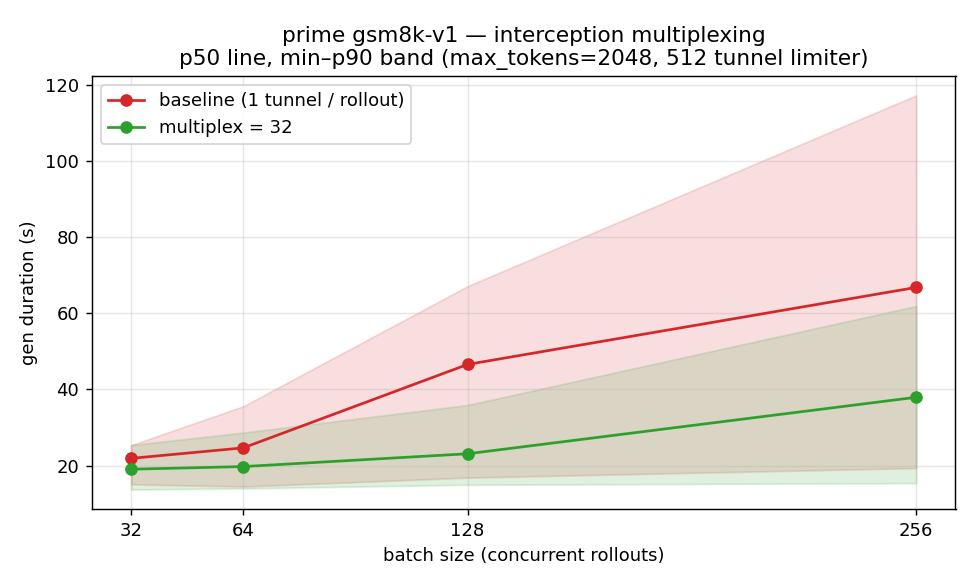
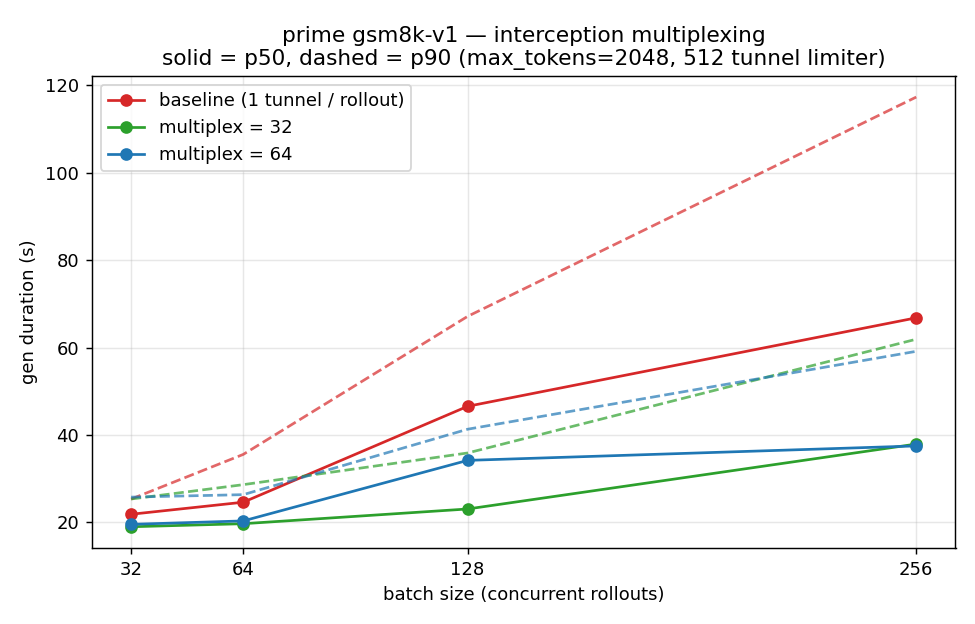
exp(v1): add multiplex=64 to the base-vs-mux plot (mux=32 is the sweet spot)

diff --git a/bench/plot_mux.py b/bench/plot_mux.py
@@ -1,11 +1,11 @@
-"""Plot interception multiplexing: baseline (tunnel/rollout) vs --multiplex 32.
+"""Plot interception multiplexing: baseline (tunnel/rollout) vs --multiplex 32 vs 64.
 
     uv run --with matplotlib python bench/plot_mux.py
 
-Reads the prime gsm8k-v1 runs (capped max_tokens=2048) at batch 32/64/128/256 for both
-variants and plots per-rollout generation-duration p50 (line) + min–p90 (band) — e2e is
-gated by endpoint-queue stragglers, so the distribution is the honest comparator.
-Writes bench/mux_vs_base.png.
+Reads the prime gsm8k-v1 runs (capped max_tokens=2048) at batch 32/64/128/256 for each
+variant and plots per-rollout generation-duration p50 (solid) + p90 (dashed) — e2e is gated
+by endpoint-queue stragglers, so the distribution is the honest comparator. Writes
+bench/mux_vs_base.png.
 """
 
 import json
@@ -16,6 +16,11 @@ matplotlib.use("Agg")
 import matplotlib.pyplot as plt
 
 SIZES = [32, 64, 128, 256]
+VARIANTS = [
+    ("base", "baseline (1 tunnel / rollout)", "#d62728"),
+    ("mux32", "multiplex = 32", "#2ca02c"),
+    ("mux64", "multiplex = 64", "#1f77b4"),
+]
 
 
 def gens(variant: str, n: int) -> list[float]:
@@ -29,31 +34,25 @@ def pct(v: list[float], q: float) -> float:
     return v[min(len(v) - 1, int(q * len(v)))] if v else float("nan")
 
 
-fig, ax = plt.subplots(figsize=(7.5, 4.5))
-for variant, label, color in [
-    ("base", "baseline (1 tunnel / rollout)", "#d62728"),
-    ("mux32", "multiplex = 32", "#2ca02c"),
-]:
+fig, ax = plt.subplots(figsize=(7.5, 4.8))
+for variant, label, color in VARIANTS:
     data = {n: gens(variant, n) for n in SIZES}
-    p50 = [pct(data[n], 0.5) for n in SIZES]
-    lo = [pct(data[n], 0.0) for n in SIZES]
-    hi = [pct(data[n], 0.9) for n in SIZES]
-    ax.plot(SIZES, p50, marker="o", color=color, label=label)
-    ax.fill_between(SIZES, lo, hi, alpha=0.15, color=color)
+    ax.plot(SIZES, [pct(data[n], 0.5) for n in SIZES], marker="o", color=color, label=label)
+    ax.plot(SIZES, [pct(data[n], 0.9) for n in SIZES], linestyle="--", color=color, alpha=0.7)
 
 ax.set_xlabel("batch size (concurrent rollouts)")
 ax.set_ylabel("gen duration (s)")
 ax.set_xticks(SIZES)
 ax.set_title(
     "prime gsm8k-v1 — interception multiplexing\n"
-    "p50 line, min–p90 band (max_tokens=2048, 512 tunnel limiter)"
+    "solid = p50, dashed = p90 (max_tokens=2048, 512 tunnel limiter)"
 )
 ax.legend()
 ax.grid(True, alpha=0.3)
 fig.tight_layout()
 fig.savefig("bench/mux_vs_base.png", dpi=130)
 print("wrote bench/mux_vs_base.png")
-for variant in ("base", "mux32"):
+for variant, _, _ in VARIANTS:
     for n in SIZES:
         v = gens(variant, n)
         print(